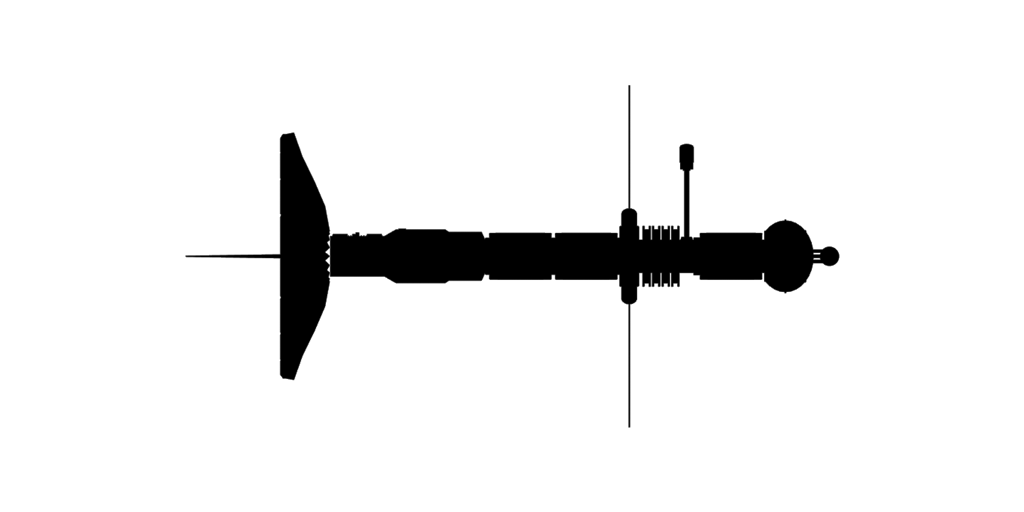
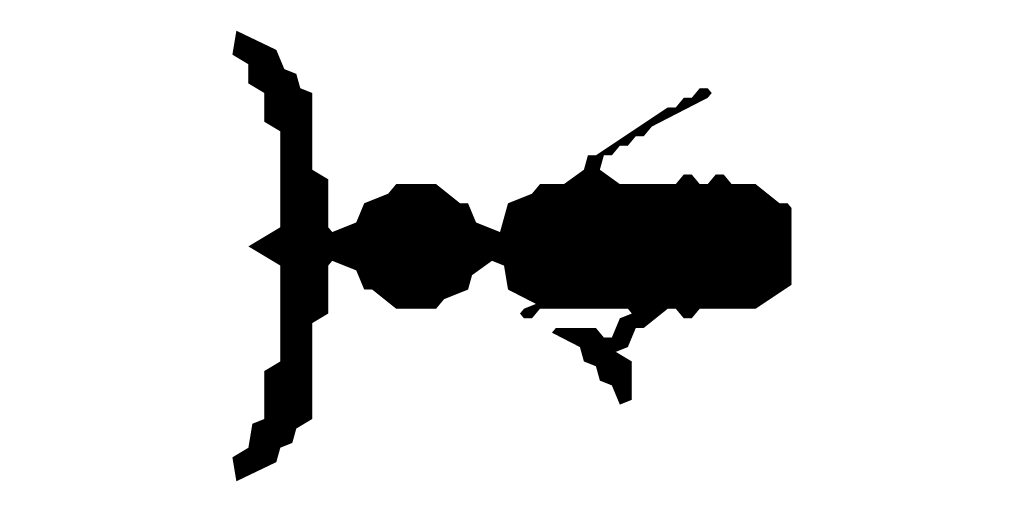
feat(sensors): the Nomad probe's sensor picture traced again from the original (#111)

diff --git a/CHANGELOG.md b/CHANGELOG.md
@@ -51,6 +51,7 @@ and this project adheres to [Semantic Versioning](https://semver.org/spec/v2.0.0
 - **Stardates in the Original's Calendar**: the port showed stardates in the real-world calendar from 01-01-4620, with `DateTime`. The original's calendar has 10 months of 30 days, a 300 day year. The star data's flare dates are in it (234 of 234), the 1984 design notes describe it, the manual speaks of "ten-month", and the Elowan place Arth's flare in "the final week of your Ten-month". Every stardate is now made from the day count of the game in that calendar (`PD_General.GetStardateYMD` and `GetStardateDHMY`, with no date class, so the computer's region plays no part): day 40 is 11-02-4620 (it was 10-02), day 299 is 30-10-4620 (it was 26-10) and day 300 is 01-01-4621 (it was 27-10-4620). The day count, the rate of the clock and the notice dates do not change; the notices of the game data are valid dates in both calendars. A save made before this has its bank ledger, the ship's log entries of what the aliens said and of the logged planets, and its current stardate moved to the original's calendar when it is loaded (`PlayerData.ValidateStardateCalendar`, marked by the new `PD_General.m_stardateCalendar`; the save version is unchanged), and a game loaded at the Starport now shows today's date there before the first launch. The `smallfixes` probe scenario expected day 40 as 10-02-4620 and now expects 11-02-4620. Checked with the `calendar` probe scenario.
 - **The Game Clock Runs Wherever the Ship Is Out in Space**: the stardate only moved in the star system and in hyperspace. It stood still in orbit, on a planet's surface, in the terrain vehicle and in encounters, while repairs, treatment and shield recharge carried on there. Raised shields use their fuel at every star hour, so in a fight they cost nothing. The clock now runs in every location of the Spaceflight scene except the docking bay, which is part of the Starport. In the original kernel (`Research/Notes/disys.txt`, `PARALLEL-TASKS`), the clock, the repairs and the crew's treatment run in one list of tasks behind one switch. The manual has the doctor treating the crew on a planet's surface (page 7), so that list runs there. That the switch is also on in orbit and in encounters is INFERRED: shields are paid for by the star hour and are raised for combat (manual page 24). The rate is unchanged: the sources do not give the original's. Checked with the `gameclock` probe scenario.
 - **A Build Starts With 12,000 MU**: a new game started with 1,000,000 MU, a leftover that was marked as a hack in `PD_Bank`. A build now starts with the original game's 12,000 MU, the amount the first starport notice names and the original's bank screen shows (`Research/Screenshots/Bank/starflt_017.png`). In the Editor a new game still starts with 1,000,000 MU, so that everything can be bought and tried out (`PD_Bank.GetStartingBalance`). Saved games keep the balance they have
+- **The Nomad Probe's Sensor Picture Follows the Original**: the hand-drawn sensor picture of the Nomad probe (vessel 19) was a thin rod with a small dish, where the original's sensor window shows a large bow-shaped dish, a body with two coloured pods and an antenna (`Research/Screenshots/Ships/Nomad Analysis.png`). It is traced again from that screenshot by `DevTools/SensorPictures` at tolerance 0.4, into the same files, so its import settings and its slot stay as they were; the review sheet is in `DevTools/SensorPictures/previews/nomad-probe.png`. The Mysterion's hand-drawn picture stays: it matches the original, and an earlier report that it was flattened came from screenshots of the game window that were scaled to 1280 x 720 unevenly. The Nomad's debris picture was made from the old picture and is unchanged. Not checked by the probe (the file names do not change, and the probe cannot read the picture); checked with the review sheet.
 
 ### Removed
 

diff --git a/README.md b/README.md
@@ -111,7 +111,7 @@ The project features a **deterministic visualization system** that renders plane
 ## 👽 Alien Asset Status
 - **Alien ship models**: the Spemin ships, the Mechan Scout and the Mysterion are hand-made models. Every other vessel (the Veloxi, Thrynn, Elowan, Uhlek and Gazurtoid ships, the Noah 9 derelict and the Enterprise) is a procedural low-poly stand-in built by the Blender scripts in `DevTools/ShipModels` (see its [README](DevTools/ShipModels/README.md)), shaped after the original's sensor pictures and sized after STRINFO. The Nomad probe and the Minstrel use their comm-screen models.
 - **Thrynn.fbx**: Currently ~74MB. Requires manual extraction of materials and potential polygon reduction to optimize performance.
-- **Sensor pictures**: the sensor window shows a picture for the Spemin ships, the Mechan Scout, the Velox drone, the Nomad probe, the Mysterion and the Minstrel (drawn by hand) and for the Elowan, Thrynn, Veloxi, Gazurtoid and Uhlek ships, the Enterprise and the Noah 9 derelict (traced from the original's screenshots by `DevTools/SensorPictures`, see its [README](DevTools/SensorPictures/README.md)): every vessel of the game data. An unknown object leaves the window empty; each wreck shows the debris of its own vessel where one is drawn.
+- **Sensor pictures**: the sensor window shows a picture for the Spemin ships, the Mechan Scout, the Velox drone, the Mysterion and the Minstrel (drawn by hand) and for the Elowan, Thrynn, Veloxi, Gazurtoid and Uhlek ships, the Nomad probe, the Enterprise and the Noah 9 derelict (traced from the original's screenshots by `DevTools/SensorPictures`, see its [README](DevTools/SensorPictures/README.md)): every vessel of the game data. An unknown object leaves the window empty; each wreck shows the debris of its own vessel where one is drawn.
 
 ---
 
